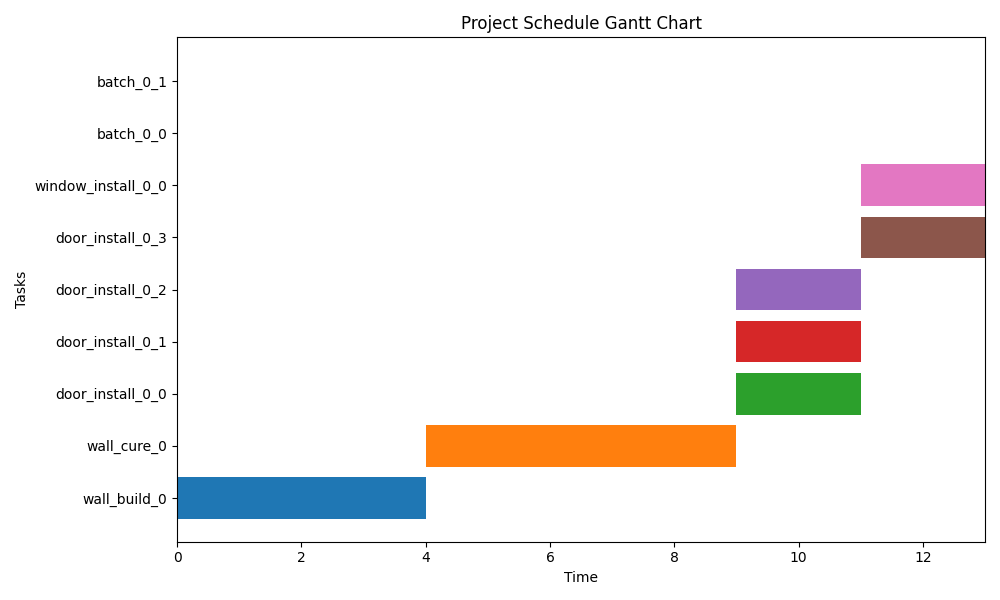
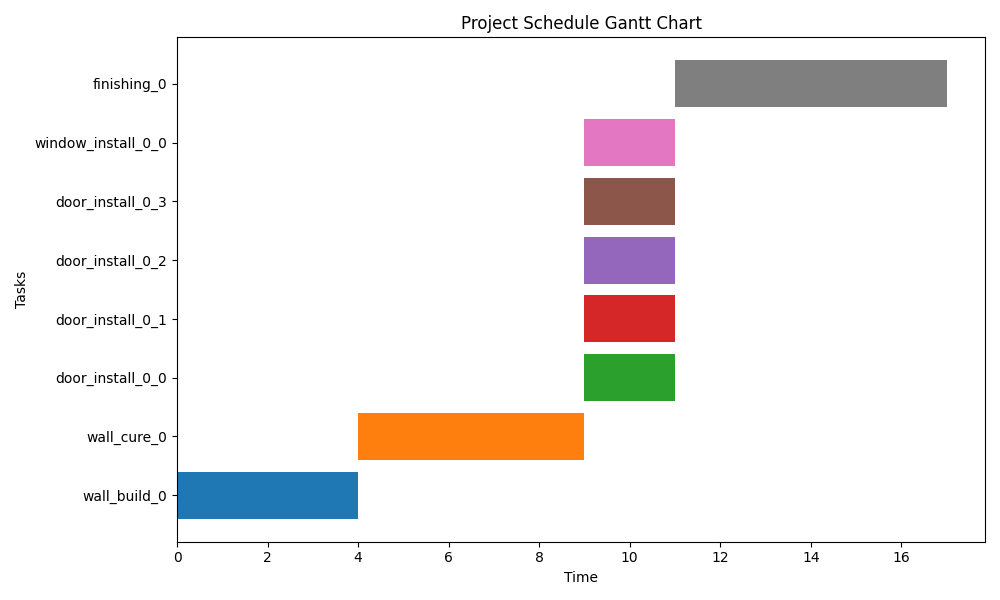
Mar 1, 2026, 8:46 AM

diff --git a/core/scheduling/cpm_engine.py b/core/scheduling/cpm_engine.py
@@ -1,36 +1,32 @@
+# core/scheduling/cpm_engine.py
+
 import networkx as nx
 
 
 def run_cpm(G, crew_capacity=None):
 
-    # ✅ EMPTY GRAPH SAFE EXIT
+    # SAFE EXIT
     if G is None or len(G.nodes) == 0:
         return G, [], 0
 
     if not nx.is_directed_acyclic_graph(G):
         raise Exception("Graph contains cycle. Cannot schedule.")
 
-    # Initial CPM computation
+    # Initial CPM
     G = compute_cpm(G)
 
-    # Apply resource leveling if capacity defined
+    # Resource leveling
     if crew_capacity is not None and len(G.nodes) > 0:
         G = apply_resource_leveling(G, crew_capacity)
-        G = compute_cpm(G)  # Recompute after leveling
+        G = compute_cpm(G)  # Recalculate after leveling
 
-    # ✅ SAFE total_duration
-    if len(G.nodes) == 0:
-        total_duration = 0
-    else:
-        total_duration = max(
-            G.nodes[n].get("EF", 0) for n in G.nodes
-        )
+    # Total duration
+    total_duration = max(
+        G.nodes[n].get("EF", 0) for n in G.nodes
+    )
 
-    # Critical path (safe)
-    critical_path = [
-        n for n in nx.topological_sort(G)
-        if G.nodes[n].get("slack", 0) == 0
-    ] if len(G.nodes) > 0 else []
+    # TRUE Critical Path (Longest Path in DAG)
+    critical_path = nx.algorithms.dag.dag_longest_path(G, weight="duration")
 
     return G, critical_path, total_duration
 
@@ -41,7 +37,6 @@ def run_cpm(G, crew_capacity=None):
 
 def compute_cpm(G):
 
-    # ✅ EMPTY SAFE
     if len(G.nodes) == 0:
         return G
 
@@ -55,7 +50,7 @@ def compute_cpm(G):
         if not preds:
             ES = 0
         else:
-            ES = max(G.nodes[p].get("EF", 0) for p in preds)
+            ES = max(G.nodes[p]["EF"] for p in preds)
 
         duration = G.nodes[node].get("duration", 0)
         EF = ES + duration
@@ -63,10 +58,7 @@ def compute_cpm(G):
         G.nodes[node]["ES"] = ES
         G.nodes[node]["EF"] = EF
 
-    # SAFE total duration
-    total_duration = max(
-        G.nodes[n].get("EF", 0) for n in G.nodes
-    ) if len(G.nodes) > 0 else 0
+    total_duration = max(G.nodes[n]["EF"] for n in G.nodes)
 
     # BACKWARD PASS
     for node in reversed(topo_order):
@@ -76,20 +68,20 @@ def compute_cpm(G):
         if not succs:
             LF = total_duration
         else:
-            LF = min(G.nodes[s].get("LS", total_duration) for s in succs)
+            LF = min(G.nodes[s]["LS"] for s in succs)
 
         duration = G.nodes[node].get("duration", 0)
         LS = LF - duration
 
         G.nodes[node]["LF"] = LF
         G.nodes[node]["LS"] = LS
-        G.nodes[node]["slack"] = LS - G.nodes[node].get("ES", 0)
+        G.nodes[node]["slack"] = LS - G.nodes[node]["ES"]
 
     return G
 
 
 # =====================================================
-# RESOURCE LEVELING (BATCHING MODEL)
+# RESOURCE LEVELING
 # =====================================================
 
 def apply_resource_leveling(G, crew_capacity):
@@ -105,9 +97,10 @@ def apply_resource_leveling(G, crew_capacity):
 
         if len(active_tasks) > crew_capacity:
 
+            # Sort by ES (priority = earlier tasks first)
             active_tasks_sorted = sorted(
                 active_tasks,
-                key=lambda n: G.nodes[n].get("ES", 0)
+                key=lambda n: G.nodes[n]["ES"]
             )
 
             for i, task in enumerate(active_tasks_sorted):
@@ -115,7 +108,7 @@ def apply_resource_leveling(G, crew_capacity):
                 batch_index = i // crew_capacity
                 new_start = time + batch_index
 
-                if G.nodes[task].get("ES", 0) < new_start:
+                if G.nodes[task]["ES"] < new_start:
                     shift = new_start - G.nodes[task]["ES"]
                     delay_task(G, task, shift)
 
@@ -127,13 +120,11 @@ def build_timeline(G):
     timeline = {}
 
     for node in G.nodes:
-        ES = G.nodes[node].get("ES", 0)
-        EF = G.nodes[node].get("EF", 0)
+        ES = G.nodes[node]["ES"]
+        EF = G.nodes[node]["EF"]
 
         for t in range(ES, EF):
-            if t not in timeline:
-                timeline[t] = []
-            timeline[t].append(node)
+            timeline.setdefault(t, []).append(node)
 
     return timeline
 
@@ -143,8 +134,8 @@ def delay_task(G, node, shift):
     G.nodes[node]["ES"] += shift
     G.nodes[node]["EF"] += shift
 
-    # Propagate shift safely
+    # Propagate shift forward
     for succ in G.successors(node):
-        if G.nodes[succ].get("ES", 0) < G.nodes[node]["EF"]:
+        if G.nodes[succ]["ES"] < G.nodes[node]["EF"]:
             needed_shift = G.nodes[node]["EF"] - G.nodes[succ]["ES"]
             delay_task(G, succ, needed_shift)

diff --git a/core/graph/dependency_graph.py b/core/graph/dependency_graph.py
@@ -8,7 +8,7 @@ def generate_tasks_from_twin(
     twin,
     productivity_factor=0.6,
     curing_days=5,
-    crew_capacity=3
+    crew_capacity=3  # kept for compatibility but NOT used for dependencies
 ):
 
     tasks = []
@@ -16,27 +16,22 @@ def generate_tasks_from_twin(
 
     for i, wall in enumerate(twin.get("walls", [])):
 
+        # -----------------------------
+        # WALL BUILD
+        # -----------------------------
         build_id = f"wall_build_{i}"
         cure_id = f"wall_cure_{i}"
 
-        # -----------------------------
-        # WALL BUILD DURATION
-        # -----------------------------
         volume = wall.get("net_volume_cuft", 10)
 
-        base_duration = max(
+        build_duration = max(
             1,
-            math.ceil(volume / 8)
-        )
-
-        adjusted_build_duration = max(
-            1,
-            math.ceil(base_duration / productivity_factor)
+            math.ceil((volume / 8) / productivity_factor)
         )
 
         tasks.append({
             "task_id": build_id,
-            "duration": adjusted_build_duration,
+            "duration": build_duration,
             "resource": 1,
             "type": "wall_build"
         })
@@ -51,59 +46,53 @@ def generate_tasks_from_twin(
         dependencies.append((build_id, cure_id))
 
         # -----------------------------
-        # DOOR + WINDOW INSTALLS
+        # DOOR INSTALLS (PARALLEL)
         # -----------------------------
-        install_ids = []
-
         for d in range(wall.get("attached_doors", 0)):
             door_id = f"door_install_{i}_{d}"
+
             tasks.append({
                 "task_id": door_id,
                 "duration": 2,
                 "resource": 1,
                 "type": "door_install"
             })
-            install_ids.append(door_id)
 
+            # Logical dependency only
+            dependencies.append((cure_id, door_id))
+
+        # -----------------------------
+        # WINDOW INSTALLS (PARALLEL)
+        # -----------------------------
         for w in range(wall.get("attached_windows", 0)):
             win_id = f"window_install_{i}_{w}"
+
             tasks.append({
                 "task_id": win_id,
                 "duration": 2,
                 "resource": 1,
                 "type": "window_install"
             })
-            install_ids.append(win_id)
+
+            dependencies.append((cure_id, win_id))
 
         # -----------------------------
-        # PARALLEL BATCHING LOGIC
+        # FINISHING PHASE
         # -----------------------------
-        if install_ids:
+        finishing_id = f"finishing_{i}"
 
-            batches = [
-                install_ids[x:x + crew_capacity]
-                for x in range(0, len(install_ids), crew_capacity)
-            ]
+        tasks.append({
+            "task_id": finishing_id,
+            "duration": 6,
+            "resource": 2,
+            "type": "finishing"
+        })
 
-            previous_anchor = cure_id
-
-            for batch_index, batch in enumerate(batches):
-
-                batch_anchor = f"batch_{i}_{batch_index}"
-
-                tasks.append({
-                    "task_id": batch_anchor,
-                    "duration": 0,
-                    "resource": 0,
-                    "type": "batch_anchor"
-                })
-
-                # All installs in batch start after previous anchor
-                for task_id in batch:
-                    dependencies.append((previous_anchor, task_id))
-                    dependencies.append((task_id, batch_anchor))
-
-                previous_anchor = batch_anchor
+        # Finishing depends on ALL installs for this wall
+        for t in tasks:
+            if t["task_id"].startswith(f"door_install_{i}_") or \
+               t["task_id"].startswith(f"window_install_{i}_"):
+                dependencies.append((t["task_id"], finishing_id))
 
     return tasks, dependencies
 
